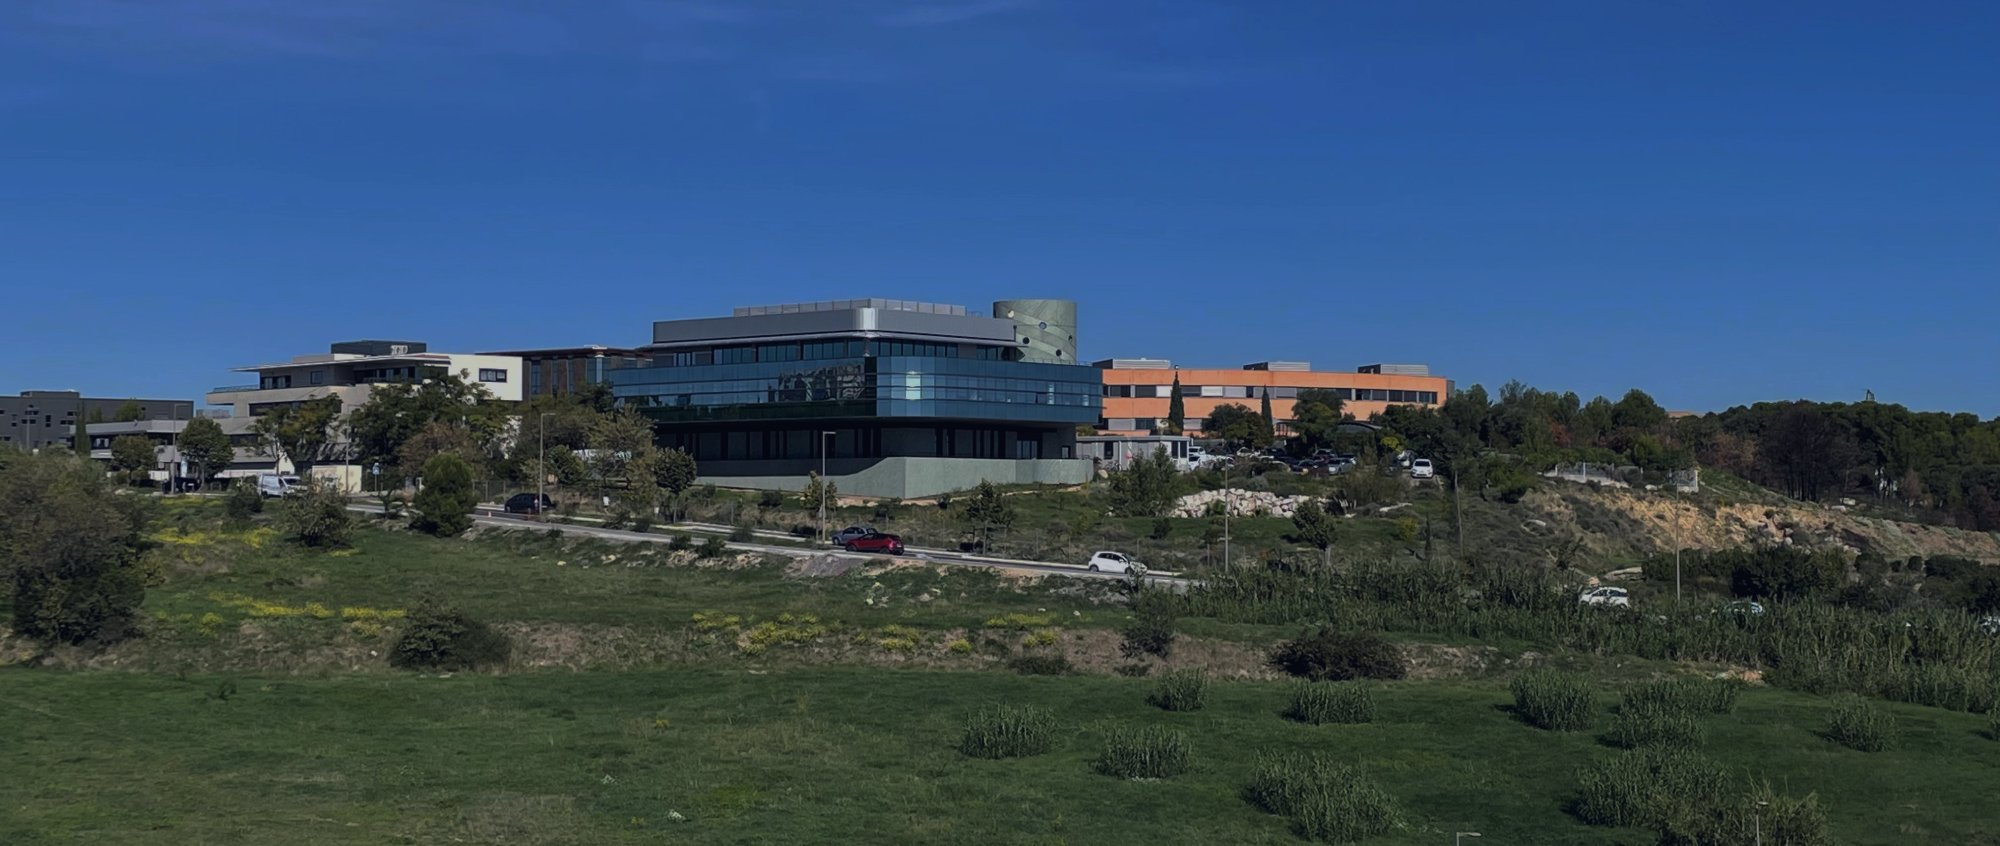
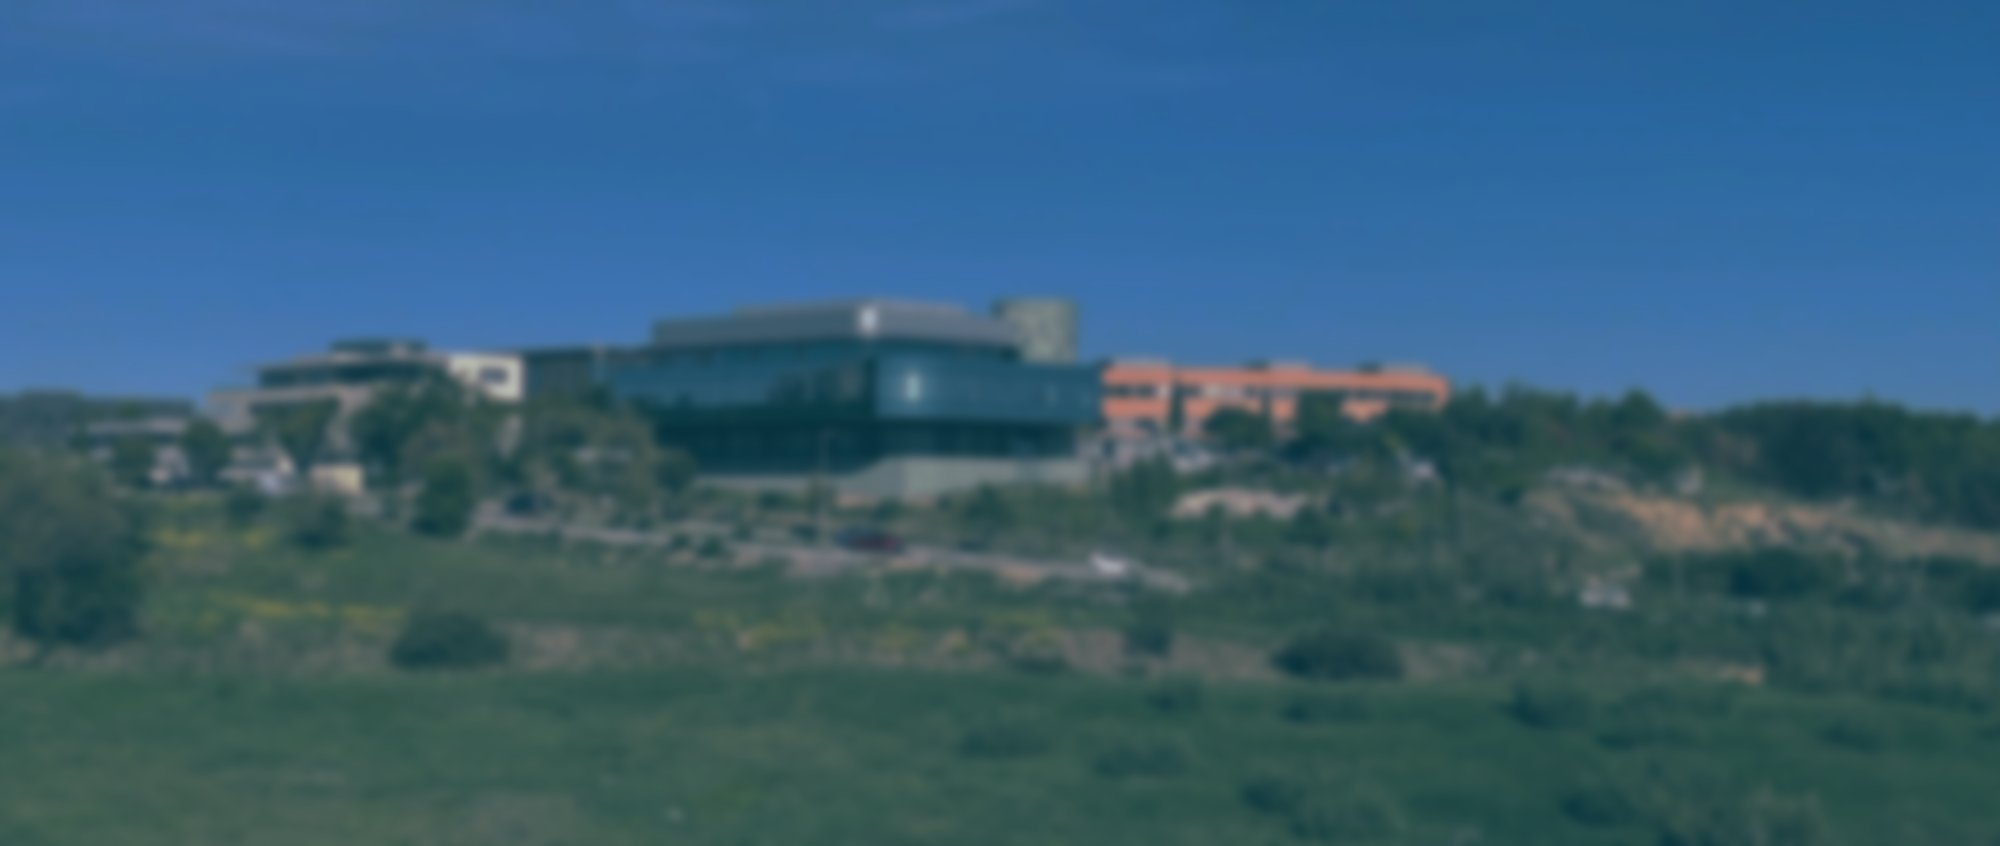
pages adjustement & contact form add

diff --git a/src/app/contact/contact.component.html b/src/app/contact/contact.component.html
@@ -1,6 +1,6 @@
 <div class="container mx-auto mt-60">
-  <div class="w-full lg:w-2/3 mx-auto">
-    <h1 class="text-center text-6xl lg:text-8xl font-extrabold load-hidden reveal">{{ 'contact.title' | translate }}</h1>
+  <div class="w-full lg:w-2/3 mx-auto reveal">
+    <h1 class="text-center text-6xl lg:text-8xl font-extrabold">{{ 'contact.title' | translate }}</h1>
     <p class="mt-8 text-justify md:text-center text-2xl">{{ 'contact.subtitle' | translate }}</p>
   </div>
 
@@ -77,29 +77,71 @@
   </div>
 </div>
 
-<!-- <div class="container mx-auto mt-32 w-1/2">
-  <div class="text-center">
-    <h1 class="title text-center mb-20 reveal">
-      <span>{{ 'contact.sections.form.title' | translate }} </span>
-      <img class="inline" width="60px" src="assets/img/emoji_wave_hand.png" alt="Wave hand">
-    </h1>
+<div class="text-center reveal mt-40">
+  <h1 class="title">
+    <span>{{ 'contact.sections.form.title' | translate }} </span>
+    <img class="inline" width="60px" src="assets/img/emoji_wave_hand.png" alt="Wave hand">
+  </h1>
+</div>
+<div class="container mx-auto mt-20 w-1/2">
+  <div class="bg-white rounded-xl p-10 shadow-sm">
+    <h3 class="text-2xl font-bold mb-3">
+      {{ 'contact.sections.form.subject.title' | translate }}
+    </h3>
+    <form [formGroup]="messageForm" (ngSubmit)="onSubmit()">
+      <div class="flex gap-3 mb-10">
+        <div
+          class="btn py-2 px-5 border border-gray-300 text-gray-400 rounded-full shadow-none"
+          [ngClass]="{ 'border-sky-700 text-sky-700': selectedSubject === 'command' }"
+          (click)="setSelectedSubject('command')"
+        >
+          <fa-icon class="me-1" [icon]="faBoxOpen"></fa-icon>
+          {{ 'contact.sections.form.subject.command' | translate }}
+        </div>
+        <div
+          class="btn py-2 px-3 border border-gray-300 text-gray-400 rounded-full shadow-none"
+          [ngClass]="{ 'border-violet-500 text-violet-500': selectedSubject === 'question' }"
+          (click)="setSelectedSubject('question')"
+        >
+          <fa-icon class="me-1" [icon]="faCircleQuestion"></fa-icon>
+          {{ 'contact.sections.form.subject.question' | translate }}
+        </div>
+        <div
+          class="btn py-2 px-3 border border-gray-300 text-gray-400 rounded-full shadow-none"
+          [ngClass]="{ 'border-green-600 text-green-600': selectedSubject === 'other' }"
+          (click)="setSelectedSubject('other')"
+        >
+          <fa-icon class="me-1" [icon]="faComment"></fa-icon>
+          {{ 'contact.sections.form.subject.other' | translate }}
+        </div>
+      </div>
+      <div
+        class="flex flex-col gap-5 transition-all"
+        [ngClass]="{ 'pointer-events-none opacity-50': selectedSubject === undefined}"
+      >
+        <div class="grid grid-cols-2 gap-5">
+          <div class="input-group">
+            <label for="lastname">{{ 'contact.sections.form.inputs.name' | translate }}</label>
+            <input id="lastname" formControlName="lastname" type="text" maxlength="50">
+          </div>
+          <div class="input-group">
+            <label for="firstname">{{ 'contact.sections.form.inputs.firstname' | translate }}</label>
+            <input id="firstname" formControlName="firstname" type="text" maxlength="50">
+          </div>
+        </div>
+        <div class="input-group">
+          <label for="email">{{ 'contact.sections.form.inputs.email' | translate }}</label>
+          <input id="email" formControlName="email" type="text" maxlength="50">
+        </div>
+        <div class="input-group">
+          <label for="message">{{ 'contact.sections.form.inputs.message' | translate }}</label>
+          <textarea id="message" formControlName="message" rows="5"></textarea>
+        </div>
+        <button class="self-start btn btn-lg bg-cyan-700 text-white">
+          <fa-icon class="me-1" [icon]="faPaperPlane"></fa-icon>
+          {{ 'contact.sections.form.inputs.button' | translate }}
+        </button>
+      </div>
+    </form>
   </div>
-  <div class="flex flex-col gap-5">
-    <div class="input-group">
-      <label for="input_name">{{ 'contact.sections.form.inputs.name' | translate }}</label>
-      <input id="input_name" type="text" maxlength="50">
-    </div>
-    <div class="input-group">
-      <label for="input_email">{{ 'contact.sections.form.inputs.email' | translate }}</label>
-      <input id="input_email" type="text" maxlength="50">
-    </div>
-    <div class="input-group">
-      <label for="input_message">{{ 'contact.sections.form.inputs.message' | translate }}</label>
-      <textarea id="intput_message" rows="5"></textarea>
-    </div>
-  </div>
-  <button class="btn btn-lg bg-cyan-700 text-white mt-5">
-    <fa-icon class="me-1" [icon]="faPaperPlane"></fa-icon>
-    {{ 'contact.sections.form.inputs.button' | translate }}
-  </button>
-</div> -->
+</div>

diff --git a/src/app/contact/contact.component.ts b/src/app/contact/contact.component.ts
@@ -1,13 +1,23 @@
 import { Component, OnInit } from '@angular/core';
-import { faEnvelope, faComment, faLocationDot, faPaperPlane, faBox } from '@fortawesome/free-solid-svg-icons';
+import {
+  faEnvelope,
+  faComment,
+  faLocationDot,
+  faPaperPlane,
+  faBox,
+  faCircleQuestion,
+} from '@fortawesome/free-solid-svg-icons';
 import { FontAwesomeModule } from '@fortawesome/angular-fontawesome';
 import { TranslateModule } from '@ngx-translate/core';
 import { AppService } from '../services/app.service';
+import { CommonModule } from '@angular/common';
+import { FormBuilder, FormControl, FormGroup, FormsModule, ReactiveFormsModule, Validators } from '@angular/forms';
+import { ApiService } from '../services/api.service';
 
 @Component({
   selector: 'app-contact',
   standalone: true,
-  imports: [FontAwesomeModule, TranslateModule],
+  imports: [FontAwesomeModule, TranslateModule, CommonModule, ReactiveFormsModule],
   templateUrl: './contact.component.html',
   styleUrl: './contact.component.scss'
 })
@@ -22,9 +32,38 @@ export class ContactComponent implements OnInit {
 
   faBoxOpen = faBox;
 
-  constructor(private appService: AppService) { }
+  faCircleQuestion = faCircleQuestion;
+
+  selectedSubject: 'command' | 'question' | 'other' | undefined = undefined;
+
+  messageForm: FormGroup;
+
+  constructor(private appService: AppService, private fb: FormBuilder, private api: ApiService) {
+    this.messageForm = this.fb.group({
+      lastname: ['', Validators.required],
+      firstname: ['', Validators.required],
+      email: ['', [Validators.required, Validators.email]],
+      message: ['', Validators.required],
+      subject: [undefined, Validators.required],
+    })
+  }
 
   ngOnInit(): void {
     this.appService.initScrollReveal();
+  }
+
+  setSelectedSubject(subject: any): void {
+    this.selectedSubject = subject;
+    this.messageForm.get('subject').setValue(subject);
+  }
+
+  onSubmit() {
+    if (this.messageForm.valid) {
+      this.api.sendMessage(this.messageForm.value).subscribe((data) => {
+        this.messageForm.reset({
+          subject: this.selectedSubject,
+        });
+      });
+    }
   }
 }

diff --git a/src/app/about/about.component.html b/src/app/about/about.component.html
@@ -43,8 +43,7 @@
     <div id="timeline_element_1" class="relative mx-auto grid grid-cols-2">
       <div class="date">2012</div>
       <div class="description">
-        Création d'un algorithme de traitement des données HRM.
-        <img src="assets/img/img_ai.jpg" alt="Illustration intelligence artificielle">
+        Création d'un algorithme de traitement des données HRM, qui fait aujourd'hui l'objet d'un brevet patati patata.
       </div>
     </div>
     <div id="timeline_element_2" class="relative mx-auto grid grid-cols-2 inactive">
@@ -52,18 +51,28 @@
       <div class="description">
         <b>Maturation de la technologie</b> <br>
         Application vétérinaire
+        <div class="flex gap-3 mt-5">
+          <div class="rounded-xl">
+            <img class="h-[50px] whiten" src="assets/img/partnership/partner_axlr.png" alt="Partner logo Axlr">
+          </div>
+          <div class="rounded-xl">
+            <img class="h-[50px] rounded-lg" src="assets/img/partnership/partner_id.jpg" alt="Partner logo Innovative Diagnostics">
+          </div>
+        </div>
       </div>
     </div>
     <div id="timeline_element_3" class="relative mx-auto grid grid-cols-2 inactive">
       <div class="date">2022</div>
       <div class="description">
-        Marquage CE IDV, DICOV MOC/I, DICOV-REST, Afroscreen
+        Obtention du marquage CE IDV, attestant de la conformité et de la qualité de nos produits selon les normes européennes. DICOV MOC/I, DICOV-REST, Afroscreen
       </div>
     </div>
     <div id="timeline_element_4" class="relative mx-auto grid grid-cols-2 inactive">
       <div class="date">2023</div>
       <div class="description">
         Création d'<b>AFYIA</b> Diagnostics 🎉
+        <br>Blablabli
+        <br><br><br><br> Blablabla
       </div>
     </div>
     <div id="timeline_element_5" class="relative mx-auto grid grid-cols-2 inactive pb-[150px]">

diff --git a/src/app/products/product/product.component.html b/src/app/products/product/product.component.html
@@ -4,11 +4,10 @@
 <div class="container mb-10">
   <button class="btn btn-white mb-5" (click)="goBack()">{{ 'products.back' | translate }}</button>
   <div class="bg-white rounded-xl shadow-sm p-10">
-    @if (product) {
     <div class="grid grid-cols-8 gap-5 mb-10">
-      <div class="col-span-5 text-4xl"><b>{{ product.title }}</b> <br> {{ product.subtitle }}</div>
+      <div class="col-span-5 text-4xl"><b>{{ product?.title }}</b> <br> {{ product?.subtitle }}</div>
       <div class="relative h-[250px] col-span-3 bg-slate-100 rounded-xl overflow-hidden reveal">
-        @if (product.image) {
+        @if (product?.image) {
         <img
           class="w-full absolute top-1/2 left-1/2 -translate-x-1/2 -translate-y-1/2"
           src="assets/img/{{ product.image }}"
@@ -20,7 +19,7 @@
       </div>
     </div>
     <div class="mb-10 grid grid-cols-2 gap-5 reveal">
-      @for (element of product.content; track element) {
+      @for (element of product?.content; track element) {
       <div class="relative flex flex-col justify-center bg-cyan-100 p-5 rounded-xl overflow-hidden">
         <div class="font-extrabold text-xl mb-1">{{ element.title }}</div>
         <div>{{ element.text }}</div>
@@ -36,15 +35,12 @@
       <button class="btn btn-lg bg-primary text-white" routerLink="/contact">
         {{ 'products.contact_us' | translate }}
       </button>
-      @if (product.card) {
+      @if (product?.card) {
       <a class="btn btn-lg bg-primary text-white hover:text-white" href="assets/{{ product.card }}" target="_blank">
         {{ 'products.view_product_card' | translate }}
         <fa-icon class="ms-1" [icon]="faUpRightFromSquare" size="sm"></fa-icon>
       </a>
       }
     </div>
-    } @else {
-    <div class="h-[500px]"></div>
-    }
   </div>
 </div>

diff --git a/src/app/about/about.component.scss b/src/app/about/about.component.scss
@@ -4,7 +4,7 @@
   position: relative;
   clip-path: border-box;
 
-  div {
+  div, img {
     transition: $transition-3;
   }
 
@@ -38,16 +38,15 @@
   .description {
     @apply text-xl;
     padding-left: 3rem;
-
-    img {
-      @apply rounded-xl mt-5;
-      width: 50%;
-    }
   }
 
   .inactive {
     .date, .description {
       color: desaturate(lighten($secondary-dark, 20), 20%);
+    }
+
+    img {
+      opacity: 0.3;
     }
 
     .date::after {
@@ -96,4 +95,8 @@
     width: 100%;
     background: linear-gradient(to top, $secondary-dark 30%, transparent);
   }
+}
+
+.whiten {
+  filter: brightness(100);
 }

diff --git a/src/app/legal/legal.component.html b/src/app/legal/legal.component.html
@@ -1,6 +1,6 @@
 <div class="container mx-auto mt-60">
   <div class="w-full lg:w-2/3 mx-auto">
-    <h1 class="text-center text-6xl lg:text-8xl mb-20 font-extrabold reveal">{{ 'legal.title' | translate }}</h1>
+    <h1 class="text-center text-6xl lg:text-8xl mb-20 font-extrabold">{{ 'legal.title' | translate }}</h1>
     <div class="bg-white p-10 rounded-xl">
       <h2 class="text-4xl font-extrabold">{{ 'legal.property.title' | translate }}</h2> <br>
       <p class="mb-20" [innerHTML]="'legal.property.text' | translate"></p>

diff --git a/src/app/contact/contact.component.scss b/src/app/contact/contact.component.scss
@@ -5,16 +5,16 @@
   flex-direction: column;
 
   label {
-    @apply mb-1;
+    @apply mb-1 font-bold;
   }
 
   input[type=text], textarea {
-    @apply p-3 rounded-xl;
+    @apply p-3 rounded-lg bg-slate-50;
     transition: $transition-1;
-    outline: 2px solid transparent;
+    outline: 1px solid transparent;
 
     &:focus {
-      outline: 2px solid rgba($primary, 0.5);
+      outline: 1px solid theme('colors.cyan.500');
     }
   }
 }

diff --git a/src/app/products/products.component.html b/src/app/products/products.component.html
@@ -14,7 +14,7 @@
       <span>Monkeypox</span>
     </div>
     <div role="button" routerLink="/about-febrile-rash" style="background-image: url('assets/img/viruses/illness_4.jpg')">
-      <span>Febrile rash</span>
+      <span>{{ 'sections.product.items.mpox_2.title' | translate }}</span>
     </div>
   </div>
 

diff --git a/src/app/services/app.service.ts b/src/app/services/app.service.ts
@@ -13,6 +13,7 @@ export class AppService {
       duration: 750,
       distance: '30px',
       origin: 'top',
+      interval: 100,
     }
 
     ScrollReveal().reveal('.reveal', config);
